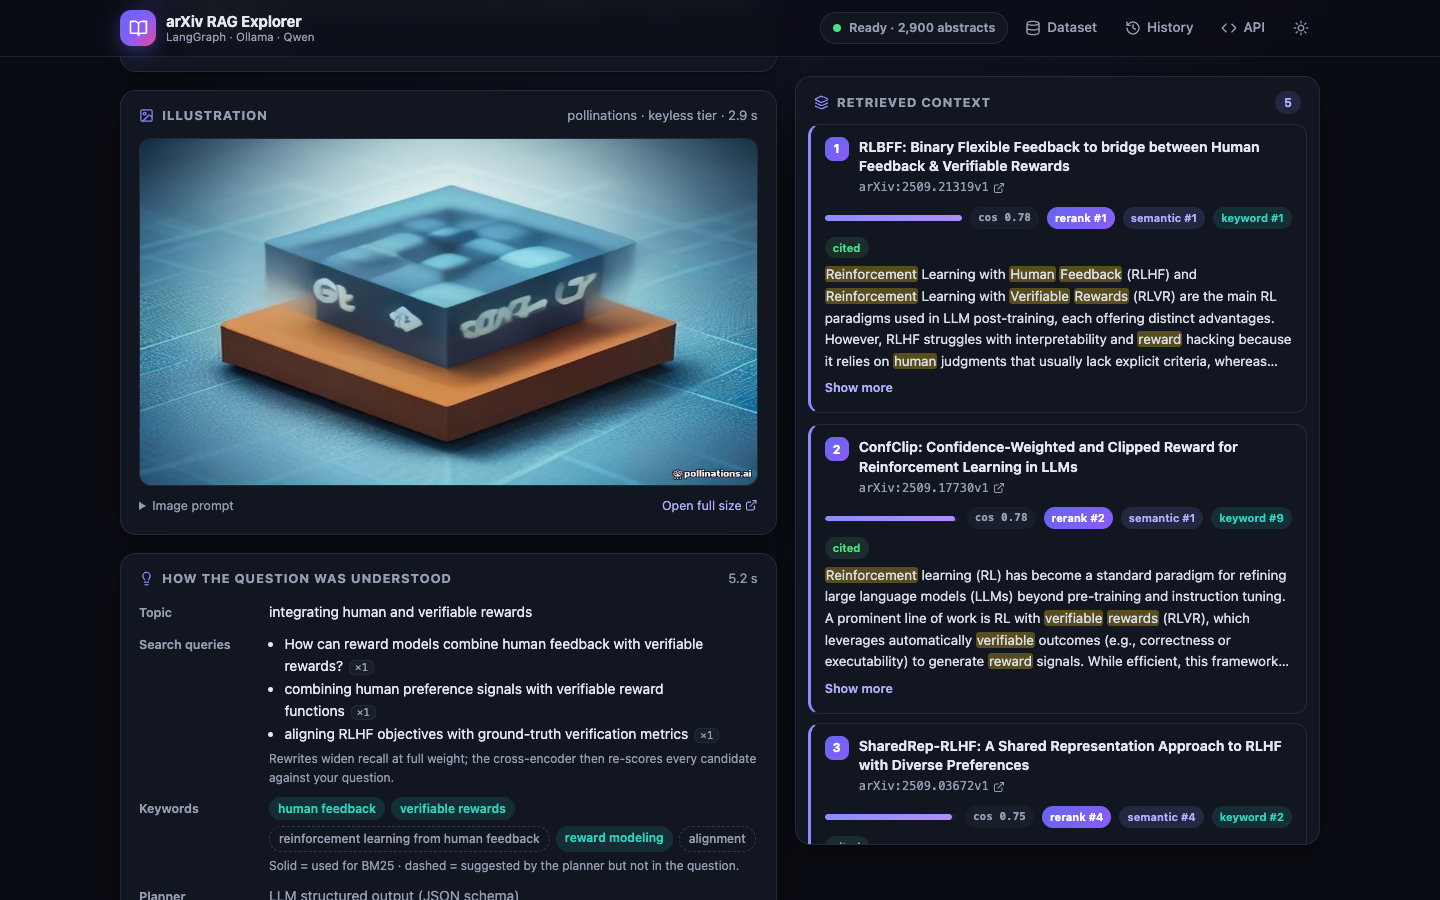
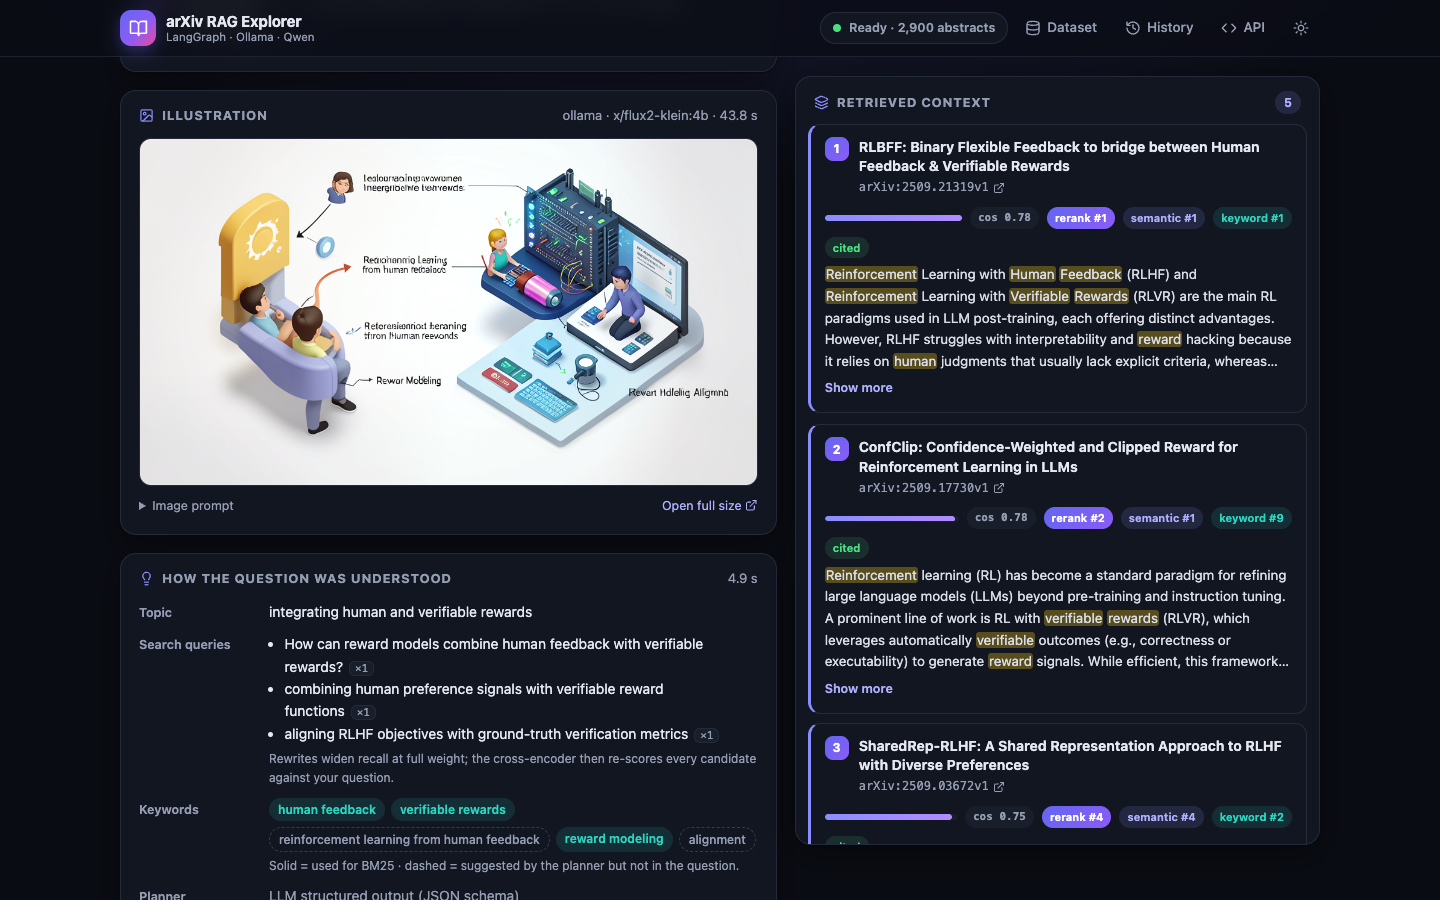
README: document the current project; local FLUX screenshot
Both image routes in the pipeline diagram, the app-managed Ollama and its
cleanup, LLM_KEEP_ALIVE, benchmark run-to-run noise and the new script
behaviour, tests via the project's .venv, the project layout incl.
storage/, troubleshooting for a failed Ollama setup, and the clone URL.
The dark-mode screenshot now shows a local FLUX.2 klein illustration.

Changed region(s): [[0.0938, 0.1244, 0.5312, 0.56], [0.1875, 0.8711, 0.375, 0.9333], [0.1875, 0.7156, 0.25, 0.7467]]

diff --git a/README.md b/README.md
@@ -3,7 +3,8 @@
 **Grounded, cited answers over a collection of research abstracts, running 100% locally.**
 LangGraph orchestrates a LangChain pipeline: query understanding with **Qwen 3.5** (via Ollama), hybrid retrieval
 (**Chroma** vectors + **SQLite FTS5** BM25), local **cross-encoder reranking**, and streamed generation, with an
-optional illustration from an external image API.
+optional illustration (a local **FLUX.2** model on Macs, or a free image API). `python3 main.py` installs and starts
+everything it needs, Ollama included.
 
 ![Answer view: pipeline progress, streamed answer with citation chips, retrieved context with rank badges](docs/screenshot-light.png)
 
@@ -38,7 +39,7 @@ optional illustration from an external image API.
 **Prerequisite:** Python 3.10+. That's all: no Docker, and nothing else to install by hand.
 
 ```bash
-git clone <your-repo-url> arxiv-rag && cd arxiv-rag
+git clone https://github.com/MaorNave/arxiv-rag-explorer.git && cd arxiv-rag-explorer
 python3 main.py            # Windows: py main.py      → http://127.0.0.1:8080
 ```
 
@@ -63,8 +64,9 @@ The UI is at **http://127.0.0.1:8080** and the API docs at **/docs**. Later star
 
 > **Why isn't everything in `requirements.txt`?** pip can only install Python packages. The Python packages
 > come from `requirements.txt`; Ollama and the model weights are downloaded by the app itself, so
-> `python3 main.py` is the whole installation. To download everything up front instead, run
-> `.venv/bin/python -m rag_app.setup_models` (for example `--llm qwen3.5:9b`).
+> `python3 main.py` is the whole installation. To download Ollama, the models and the reranker up front
+> instead, run `.venv/bin/python -m rag_app.setup_models` (for example `--llm qwen3.5:9b`); the optional
+> local image model is still set up by the app, in the background.
 
 ---
 
@@ -86,12 +88,14 @@ If you started the app with another `PORT`, use that number instead of `8080` in
 **PyCharm:** open `main.py` and press ▶ *Run* (any interpreter works: missing packages are installed into the
 project's `.venv` or the selected virtual environment); the ■ *Stop* button stops it.
 
-**Ollama stops with the app**, when the app is running its own copy (and so does the local image server on macOS).
-If you use your own Ollama installation instead, it keeps running: idle models are unloaded after 30 minutes
-(`LLM_KEEP_ALIVE`), or right away with `ollama stop qwen3.5:4b`.
+**Ollama stops with the app**, when the app is running its own copy (and so does the local image server on macOS),
+even if you stop the app in the middle of its first-run setup. The command-line tools (`rag_app.setup_models`, the
+benchmark) clean up the same way after an error, <kbd>Ctrl</kbd>+<kbd>C</kbd> or `kill`. If you use your own Ollama
+installation instead, it keeps running: idle models are unloaded after 30 minutes (`LLM_KEEP_ALIVE`), or right away
+with `ollama stop qwen3.5:4b` and `ollama stop nomic-embed-text`.
 
-**Start fresh:** delete the `storage/` folder (index, the app's Ollama copy, its models, and generated images); the
-next `python main.py` sets everything up again.
+**Start fresh:** delete the `storage/` folder (index, the app's Ollama copy and its models, the reranker, uploads and
+generated images); the next `python main.py` sets everything up again.
 
 ---
 
@@ -131,7 +135,8 @@ flowchart LR
     U --> R["retrieve<br/><small>Chroma + FTS5 BM25<br/>weighted RRF · 20 candidates</small>"]
     R --> X["rerank<br/><small>MiniLM cross-encoder<br/>ONNX · top-k</small>"]
     X --> G["generate_answer<br/><small>Qwen · streamed · cited</small>"]
-    X -. "generate_image = true" .-> I["generate_image<br/><small>external API</small>"]
+    X -. "image via a free API<br/>(in parallel)" .-> I["generate_image<br/><small>local FLUX.2 or free API</small>"]
+    G -. "image via the local model<br/>(after the answer)" .-> I
     G --> F["finalize<br/><small>response JSON</small>"]
     I --> F
 ```
@@ -142,7 +147,7 @@ flowchart LR
 | `retrieve` | Embeds all queries in one batch, runs one dense search per query plus one BM25 search, and fuses everything with **weighted RRF** (`Σ w / (60 + rank)`), keeping the best chunk per paper. |
 | `rerank` | A local cross-encoder reads (question, abstract) pairs together. Its ranking is blended with the hybrid ranking (RRF again) to pick the final `top_k`. If the model is unavailable, the hybrid order passes through. |
 | `generate_answer` | Streams tokens from Qwen. Citations are parsed from `[n]` markers and repaired when the model writes `[Abstract 2]` or a raw doc id. |
-| `generate_image` | Runs in the **same super-step** as `generate_answer` (LangGraph executes them concurrently), so the image never delays the text. |
+| `generate_image` | Only when an image was requested. A free external API runs in the **same super-step** as `generate_answer` (LangGraph executes them concurrently); the local model runs right **after** the answer, so it never competes with Qwen for the GPU. Either way the image never delays the text. |
 | `finalize` | Builds the response: `answer`, `citations`, `retrieved_context`, `sources`, `query_analysis`, `images`, `metrics`. |
 
 Each node publishes progress through LangGraph's custom stream (`get_stream_writer`). `/stream` forwards these
@@ -165,7 +170,8 @@ flowchart LR
   The same content under another name reuses the index; any real change triggers a rebuild.
 - **Crash-safe:** each build gets fresh, uniquely named collection and keyword files, and `manifest.json` is
   replaced atomically only after success. An interrupted build is simply rebuilt next time.
-- **Model-specific prefixes:** e.g. nomic's `search_document:` / `search_query:`, applied automatically.
+- **Model-specific prefixes:** e.g. nomic's `search_document:` / `search_query:`, applied automatically
+  (`EMBED_DOC_PREFIX` / `EMBED_QUERY_PREFIX` override them for other models).
 - **Live progress** (`/api/status`): processed / total, docs/s and ETA, shown in the UI as a progress bar.
 
 ---
@@ -312,11 +318,12 @@ nothing to run or install by hand:
   after startup, the app downloads Ollama 0.32.5 into `storage/runtime/` (146 MB) and runs it on
   `127.0.0.1:11435` for images only. It reuses `x/flux2-klein:4b` from your regular Ollama when present (zero-copy
   clones); otherwise it downloads the model (5.7 GB). The image toggle shows the progress.
-- **Your regular Ollama is untouched** and keeps serving Qwen. If the app is running its own Ollama anyway (no
+- **Your regular Ollama is untouched** and keeps serving Qwen. While it is 0.32.6 or newer, image requests go only
+  to the app's 0.32.5 server, even if your Ollama has the model too. If the app is running its own Ollama anyway (no
   Ollama on the machine), that same copy serves images too.
 - **It starts and stops with the app.** While it's being set up, or if it fails, the free APIs are used.
 - **The answer is not slowed down.** Local images start once the answer is complete. Measured on an M1 Pro with
-  16 GB: the answer took ~20 s as usual, then a 1024×576 image took ~40–45 s, peaking at ~7.6 GB of memory.
+  16 GB: the answer took ~16–20 s as usual, then a 1024×576 image took ~40–50 s, peaking at ~7.6 GB of memory.
 - On Linux and Windows the app uses the free external APIs. Set `OLLAMA_IMAGE_BASE_URL` to use another Ollama
   server for images.
 
@@ -347,6 +354,7 @@ commented list. The main ones:
 | `RERANKER_MODEL` | `cross-encoder/ms-marco-MiniLM-L6-v2` | `none` disables reranking |
 | `REWRITE_WEIGHT` / `KEYWORD_WEIGHT` | `auto` | RRF weights (1.0/1.0 with the reranker, 0.25/1.5 without) |
 | `LLM_THINKING` | `false` | let Qwen think first; the reasoning streams into a collapsible panel |
+| `LLM_KEEP_ALIVE` | `30m` | how long Ollama keeps the models loaded after a request (Ollama durations: `10m`, `1h30m`; `-1` = always) |
 | `STORAGE_DIR` | `storage` | index, models, uploads, images |
 | `IMAGE_PROVIDER` | `auto` | `auto` (local → Cloudflare → Pollinations), `ollama`, `cloudflare`, `pollinations` or `none`; see [image generation](#bonus-image-generation) |
 
@@ -391,11 +399,15 @@ Results with k=5 on the bundled dataset (`qwen3.5:4b`, `nomic-embed-text`):
 
 | Strategy | semantic hit@5 | paraphrased hit@5 | paraphrased MRR@5 | named hit@1 | named hit@5 |
 |---|---|---|---|---|---|
-| dense only | 0.97 | 0.57 | 0.45 | 0.60 | 0.80 |
+| dense only | 0.97 | 0.57 | 0.45 | 0.60 | 0.85 |
 | BM25 only | 1.00 | 0.45 | 0.37 | 0.95 | 0.95 |
-| hybrid (RRF) | 1.00 | 0.60 | 0.46 | 0.80 | 0.95 |
+| hybrid (RRF) | 1.00 | 0.60 | 0.46 | 0.85 | 0.95 |
 | hybrid + LLM query plan | 1.00 | 0.62 | 0.47 | 0.95 | 1.00 |
 | **hybrid + plan + rerank (default)** | **1.00** | **0.80** | **0.59** | **0.95** | **1.00** |
+
+The *named* columns of the dense and hybrid rows move by one or two of the 20 queries between runs (±0.05–0.10):
+Chroma's approximate nearest-neighbour search isn't bit-identical from one process to the next, although the
+embeddings are. The default pipeline's row was identical in every run we compared.
 
 Reranking adds ~0.57 s per question. The benchmark drove three design decisions:
 
@@ -405,42 +417,59 @@ Reranking adds ~0.57 s per question. The benchmark drove three design decisions:
    "diffusion" were pulling exact matching off-topic.
 3. **The cross-encoder.** It's the only configuration that is best or tied-best on every query set.
 
-Run it yourself (stop the web app first so the two don't compete for the GPU):
-`python scripts/eval_retrieval.py --n 40 --named 20 --k 5`.
+Run it yourself (several minutes the first time, while the local LLM writes the questions and query plans; about
+1.5 min once they are cached; on Windows use `.venv\Scripts\python`):
+
+```bash
+.venv/bin/python scripts/eval_retrieval.py --n 40 --named 20 --k 5
+```
+
+Stop the web app first and keep it stopped during the run: the two would compete for the GPU, and an Ollama the
+script starts is stopped when it ends. Like `main.py`, the script uses a running Ollama or sets up the app's own
+copy, and pulls missing models. The generated questions and query plans are cached in `storage/eval_*.json` (delete
+them to regenerate), so an interrupted run resumes where it stopped.
 
 ---
 
 ## Tests
 
 ```bash
-pip install -r requirements-dev.txt
-pytest -q          # 55 tests, ~4 s, fully offline
+.venv/bin/pip install -r requirements-dev.txt    # adds pytest to the project's .venv
+.venv/bin/python -m pytest -q                    # 58 tests, ~4 s, fully offline
 ```
 
-The suite never touches Ollama or the network: it uses deterministic bag-of-words embeddings and LangChain's
-`GenericFakeChatModel`. It covers:
+(On Windows use `.venv\Scripts\pip` and `.venv\Scripts\python`.) The suite never touches Ollama or the network: it
+uses deterministic bag-of-words embeddings, LangChain's `GenericFakeChatModel`, mocked HTTP and a fake
+`ollama serve`. It covers:
 
 - streaming loading, malformed and duplicate records, `DATA_PATH` fallbacks;
-- fingerprint reuse vs rebuild, cleanup of old indexes, forced rebuilds;
+- fingerprint reuse vs rebuild, cleanup of old indexes, forced rebuilds, `LLM_KEEP_ALIVE` durations;
 - hybrid retrieval and its ablation modes, weighted fusion, reranker blending;
 - citation parsing;
 - the API schema, the SSE event order, validation errors, `503` before the index exists, and dataset upload →
   rebuild;
+- startup: answers while the reranker is still downloading or after it failed, and a failed Ollama setup that keeps
+  its reason on screen;
+- the app's own Ollama: download and unpack, start/stop, reuse of models from an existing Ollama, and that stopping
+  the app mid-setup or interrupting a start never leaves a server running;
 - the image branch: success, failure, and the guarantee that a slow image doesn't delay the answer;
 - the free image chain (local Ollama, Cloudflare Workers AI, Pollinations) against mocked HTTP: fallbacks,
-  error messages, and that a local model runs after the answer instead of competing with it.
+  error messages, which Ollama server gets the local model, and that it runs after the answer instead of competing
+  with it.
 
 ---
 
 ## Project layout
 
 ```
-├── main.py                  # python main.py → http://127.0.0.1:8080
+├── main.py                  # python main.py → http://127.0.0.1:8080 (sets up .venv on the first run)
 ├── requirements.txt         # runtime deps (models are pulled automatically, see Quick start)
 ├── requirements-dev.txt     # + pytest
 ├── .env.example             # every setting, documented
 ├── data/arxiv_2.9k.jsonl    # sample dataset (arXiv metadata)
+├── docs/                    # screenshots used in this README
 ├── rag_app/
+│   ├── __main__.py          # python -m rag_app: CLI flags, logging, web server
 │   ├── config.py            # settings from env / .env
 │   ├── dataset.py           # DATA_PATH resolution, streaming LangChain loader, fingerprinting
 │   ├── embeddings.py        # Ollama embeddings + model-specific task prefixes
@@ -454,12 +483,16 @@ The suite never touches Ollama or the network: it uses deterministic bag-of-word
 │   ├── images.py            # bonus image providers
 │   ├── service.py           # startup orchestration, dataset watcher, answer/stream
 │   ├── server.py            # FastAPI: UI, /answer, /stream, /api/*
+│   ├── schemas.py           # request/response models of the API
+│   ├── status.py            # startup / indexing progress shared with the UI
 │   ├── setup_models.py      # Ollama checks + model downloads (also an optional CLI)
 │   ├── runtime.py           # the app's own Ollama: download, start/stop, model reuse
 │   └── static/              # the web UI (vanilla HTML/CSS/JS, no build step)
 ├── scripts/
 │   └── eval_retrieval.py    # retrieval benchmark
-└── tests/                   # offline pytest suite
+├── tests/                   # offline pytest suite
+└── storage/                 # created on the first run, git-ignored: index/, models/ (reranker), runtime/
+                             #   (the app's own Ollama and its models), images/, uploads/, downloads/
 ```
 
 ---
@@ -468,8 +501,8 @@ The suite never touches Ollama or the network: it uses deterministic bag-of-word
 
 - **Ollama for every model call, installed by the app itself.** One local runtime serves the LLM, the embeddings
   and (on macOS) images, with GPU acceleration where available and CPU otherwise. When no Ollama is running, the
-  app downloads and supervises its own copy in `storage/`. Together with model pulls through the Ollama API, this
-  is what makes "pip install + `python main.py`" the whole installation, without Docker.
+  app downloads and supervises its own copy in `storage/` and never leaves it running behind it. Together with model
+  pulls through the Ollama API, this is what makes `python main.py` the whole installation, without Docker.
 - **Qwen 3.5 4B with thinking off.** It is fast (~35 tok/s on an M1) and its structured-output support makes query
   planning reliable. Thinking can be switched on (`LLM_THINKING=true`): the reasoning streams into a collapsible
   panel and an extra token budget is reserved for it. Expect answers to take ~4× longer (≈60 s instead of ≈15 s).
@@ -497,7 +530,8 @@ The suite never touches Ollama or the network: it uses deterministic bag-of-word
 
 | Symptom | Fix |
 |---|---|
-| UI says *Waiting for Ollama* | Only happens with a remote `OLLAMA_BASE_URL` (or `MANAGED_OLLAMA=false`): start Ollama on that server. With the default local URL the app runs its own copy. |
+| UI says *Waiting for Ollama* | `OLLAMA_BASE_URL` points to another machine (or `MANAGED_OLLAMA=false`): start Ollama there. The page continues by itself once Ollama answers. |
+| UI says *Could not set up Ollama automatically* | The app couldn't download or start its own Ollama, and the message says why (e.g. no internet on the first run). Fix that and restart the app, or start Ollama yourself: the page continues by itself once it answers. |
 | First start is slow | Ollama and the models are downloading into `storage/`; progress is shown in the UI and the terminal. Later starts take seconds. |
 | The first answer after a while is slow | Ollama unloads idle models after `LLM_KEEP_ALIVE` (30 min). Other apps using *different* Ollama models at the same time can also force model swaps. |
 | Out of memory / very slow on CPU | Use a smaller `LLM_MODEL` (see [hardware](#models-and-hardware)), lower `LLM_NUM_CTX` to `4096`, or set `QUERY_REWRITE=false`. |
